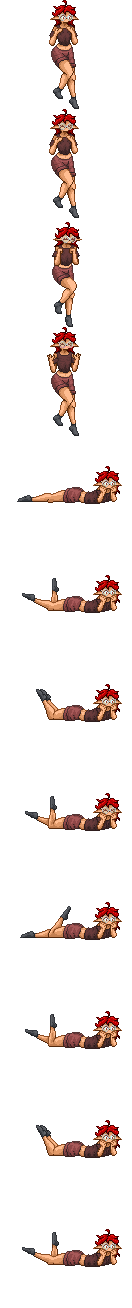
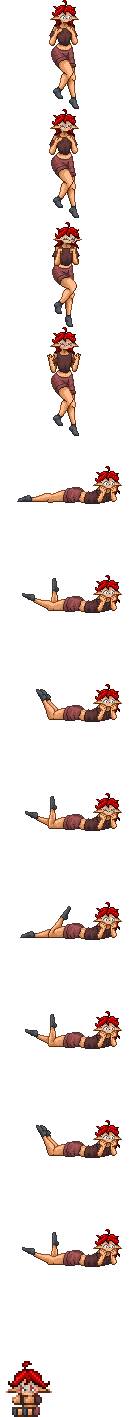
Small changes

Changed region(s): [[0.1515, 0.0, 0.9091, 0.8257], [0.0606, 0.8563, 0.9091, 1.0]]

diff --git a/Content/Projectiles/Pets/ElfPetProjectile.cs b/Content/Projectiles/Pets/ElfPetProjectile.cs
@@ -24,7 +24,7 @@ namespace ArcaneOdyssey.Content.Projectiles.Pets
         private bool haveICelebrated = false;
         public override void SetStaticDefaults()
         {
-            Main.projFrames[Projectile.type] = 12;
+            Main.projFrames[Projectile.type] = 13;
             Main.projPet[Projectile.type] = true;
         }
         public override void SetDefaults()
@@ -35,7 +35,7 @@ namespace ArcaneOdyssey.Content.Projectiles.Pets
             Projectile.tileCollide = false;
             Projectile.ai[0] = 0;
             Projectile.frameCounter = 0;
-            Projectile.frame = 13;
+            Projectile.frame = 12;
         }
         public override bool PreAI()
         {
